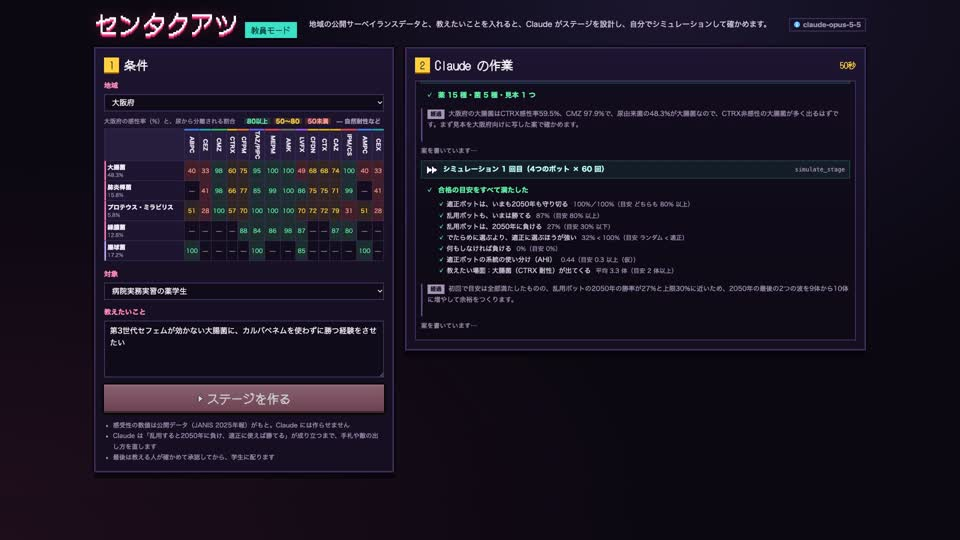
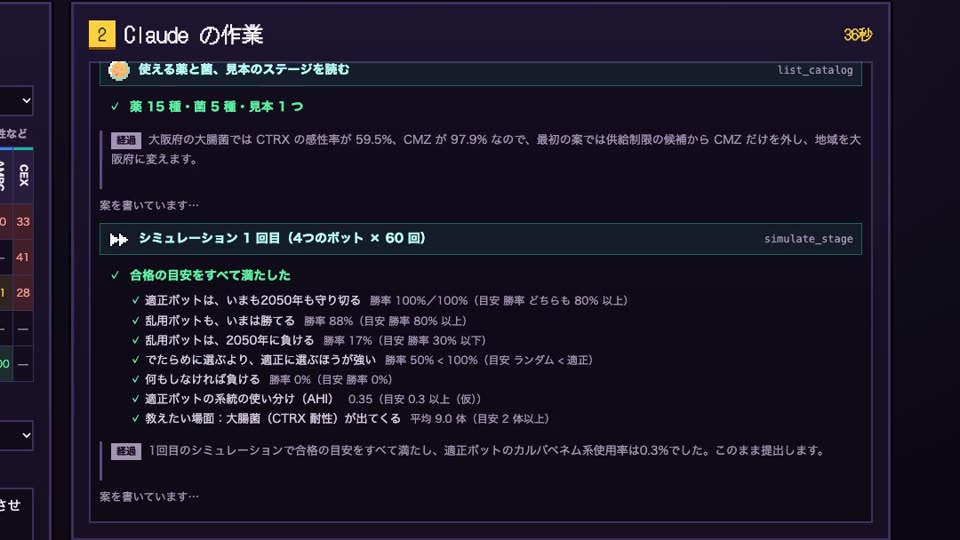
教員モードの録画を本物の Claude で撮り直し、シーン8を「入力 → Claude の作業 → 承認と QR → 学生の画面」の4段に
- 録画2回（0.33ドル・0.29ドル）。2回目（大阪府の値を読んで見本から1か所変えた案を作り、1回目のシミュレーションで合格、「カルバペネム系の使用は 0.3%。このまま提出」と判断）を使う
- 承認でできた public/stages/uti-osaka-ctrx-r-ecoli.json を入れる（11/5 の uti-osaka-3gc-r-ecoli.json も残す）
- make-draft-video.ts：シーン8の区切り（RUN8）・4段の構成・字幕6本・右下の数字 17%。工程の図の4は「直すか決める」。録音の目印「肺炎など」は 19秒
- README・提出文の教員モードの段落と写真（teacher-mode.jpg）を新しい回に。27% → 17% の回は「別の回」として再生ページの案内に残す
- DEMO.md のシーン8と時間配分、DEVLOG

Changed region(s): [[0.0, 0.0, 0.9375, 1.0]]

diff --git a/scripts/make-draft-video.ts b/scripts/make-draft-video.ts
@@ -240,7 +240,7 @@ p:last-of-type{color:#a493b6}
         ["データを読む", "地域の公開データ・使える薬"],
         ["案を作る", "見本をもとに手札と敵の出し方"],
         ["試す", "自動のプレイヤー4種 × 60回"],
-        ["直す", "目安に近い・届かない点を"],
+        ["直すか決める", "目安に近い点・届かない点があれば"],
         ["提出", "別の条件で100回ずつ確かめ直す"],
       ];
       const rows = steps
@@ -812,43 +812,47 @@ async function main(): Promise<void> {
       ],
     });
     built.at(-1)!.overlays.push({ kind: "compare", text: COMPARE.map((c) => `${c.head}：${c.rows.map((r) => r.text).join("／")}`).join(" ｜ "), start: t7c, end: DUR7 });
-    // 8 教える側（24秒）：教員モードの録画（record-demo.ts の teacher。本物の Claude を動かした回）。
-    // 入力（全体、3.5秒）→ Claude の作業を拡大（17.5秒。自分で見つけて直す場面は等倍 4.5秒）→ できたステージと承認・QR（3秒）。
-    // 第7版：紙芝居をやめた分で 16 → 24秒に戻した（初見の読み手役3人「Claude の見せ場がいちばん薄い」「教員モードは22〜24秒」）
-    // 作業の記録の時刻（録画の秒）：1回目のシミュレーションの合格が約40秒、「乱用の2050年の勝率 27% は上限 30% に近い」と書いて
-    // 波を増やすのが約48秒、2回目（17%）が約72秒、提出が約78秒から（2026-11-05 に録画のコマを見て確かめた）
+    // 8 教える側（23.5秒。第8版の続き、2026-11-08 作者「教員モードで何をしているか伝わりやすいように、写す場面も工夫」）：
+    // 教員モードの録画（record-demo.ts の teacher。本物の Claude を動かした回。撮り直し：2026-11-08 00:55 の2回目、claude-opus-5-5、0.29ドル・76秒。
+    //   1回目（0.33ドル）は見本のままで「87% は目安に近いが直すとつり合いが崩れる」と判断した回。2回目は教えたいことに合わせて見本から1か所変えた回で、こちらを使う）を4段で：
+    //   A 入力（3秒。地域・対象・教えたいことを打つ）→ B Claude の作業（12秒。記録の欄を拡大。データを読む → 案（供給制限の候補から CMZ を外す）→
+    //   1回目のシミュレーションで全部の目安を満たす → 「カルバペネム系の使用は 0.3%。このまま提出します」と判断する場面は等倍 → 提出）
+    //   → C 承認と QR（4秒。できたステージのカード → 承認 → 学生用の URL と QR）→ D 学生の画面（4.5秒。できたステージのブリーフィング → 盤面で遊ぶ）
+    // 録画の秒（2026-11-08 にコマで確かめた）：データを読む 11〜27、案の文 27〜、シミュレーション 1 回目の結果 39.5、判断の文 45.5、done 74.9、承認 80.9、QR 83.9、
+    // ブリーフィング 92.6、遊ぶ 97.6
     const sup8 = script.get(8)?.supplements ?? [];
     const TEACHER = "teacher";
     const tReg = at(TEACHER, "地域：大阪府");
     const tGo = at(TEACHER, "ステージを作る");
     const tEnd = at(TEACHER, "設計の終わり：done");
     const tUrl = at(TEACHER, "学生用の URL");
-    const w0 = 3.5; // 作業の場面が始まる秒（シーンの中）
-    const kIn = (tGo + 1 - (tReg - 1)) / w0;
-    // 作業の記録の欄を約1.33倍にして左に寄せ、右の約400px を工程の図と直した数字の欄にする
-    // （約1.8倍で画面いっぱいにすると、右の図が Claude の書いた肝心の一文の右端を隠した。2026-11-05）
+    const tBrief = at(TEACHER, "遊び方 → ブリーフィング（できたステージ）");
+    const tPlay = at(TEACHER, "できたステージを遊ぶ");
+    /** 作業の記録の中の区切り（録画の秒）。録画を撮り直したら、コマを見てここを直す。dataEnd：案の文が出る、planEnd：等倍に入る（結果の表が出そろったあと）、judgeEnd：判断の文を読み終える */
+    const RUN8 = { dataEnd: 27, planEnd: 42, judgeEnd: 46.5 };
+    const IN_LEN = 3; // A 入力
+    const WORKLEN = 12; // B 作業
+    const QRLEN = 4; // C 承認と QR
+    const BRIEF_LEN = 1.5; // D ブリーフィング（早送り）
+    const PLAY_LEN = 3; // D 遊ぶ（等倍）
+    const w0 = IN_LEN;
+    const kIn = (tGo + 1 - (tReg - 1)) / IN_LEN;
+    // 作業の記録の欄を約1.33倍にして左に寄せ、右の約400px を工程の図と数字の欄にする
     const WORK = "crop=1080:608:730:93,scale=1440:810:flags=lanczos,pad=1920:1080:40:135:color=0x0d0915";
-    // 作業の区切り（録画の秒の from・to と速さ）。合わせて WORKLEN 秒にする。
-    // 第5版の評価（審査員・元臨床医「Claude の判断を等速で見たい」）を受けて、「27% は上限 30% に近いため、波を増やす」と書く場面
-    // （録画の約48秒から。2026-11-06 にコマで確かめた）を等倍 4.5秒で見せる（作者の判断）。
-    // 声の「切り札だけで守れてしまうなら、敵を強めて確かめ直す」は第6版で外し、等倍の場面と上の一行で見せる。「できたステージで遊ぶ」は省いた
-    const SEGS: [number, number, number][] = [
-      [tGo + 1, 44, 8], // データを読む → 案 → 1回目の試し
-      [44, 47.5, 3], // 1回目の結果（合格）
-      [47.5, 52, 1], // 「27% は上限 30% に近いため、波を増やす」（等倍）
-      [52, 56, 3], // 直す
-      [56, 78, 8], // 2回目の試し（17%）
+    const JUDGE = 4.5; // 等倍の秒数（結果の表 → 判断の文）
+    const PLAN_LEN = 2.5; // データを読む → 案の文が出るまで（早送り）
+    const AFTER_LEN = 3; // 案の文が読める速さで → シミュレーション 1 回目（ゆっくり）
+    const kPlan = (RUN8.dataEnd - (tGo + 1)) / PLAN_LEN;
+    const kAfter = (RUN8.planEnd - RUN8.dataEnd) / AFTER_LEN;
+    const kSubmit = (tEnd - RUN8.judgeEnd) / (WORKLEN - PLAN_LEN - AFTER_LEN - JUDGE);
+    const all8: [number, number, number][] = [
+      [tGo + 1, RUN8.dataEnd, kPlan], // データを読む
+      [RUN8.dataEnd, RUN8.planEnd, kAfter], // 案の文（見本から1か所変える）→ シミュレーション 1 回目の結果
+      [RUN8.planEnd, RUN8.judgeEnd, 1], // 結果の表と判断の文（等倍）
+      [RUN8.judgeEnd, tEnd, kSubmit], // ブリーフィングを書く → 提出 → 確かめ直し → done
     ];
-    const WORKLEN = 17;
-    const QRLEN = 3;
-    const used = SEGS.reduce((a, [f, t, k]) => a + (t - f) / k, 0);
-    const kD = (tEnd - 78) / (WORKLEN - used); // 提出
-    const all8: [number, number, number][] = [...SEGS, [78, tEnd, kD]];
-    // できたステージと QR の場面は、設計の終わりの 4秒あと（承認 → 学生用の URL と QR）から。前は終わりの直後からで、3秒のうち QR が映るのは最後の1秒だけだった
-    const tQr = tEnd + 4;
-    const kRes = (tUrl + 5 - tQr) / QRLEN;
     const at8 = (rec: number) => {
-      // 録画の秒 → シーンの中の秒
+      // 録画の秒 → シーンの中の秒（作業の記録の中）
       let t = w0;
       for (const [f, to, k] of all8) {
         if (rec <= to) return t + (rec - f) / k;
@@ -857,39 +861,50 @@ async function main(): Promise<void> {
       return w0 + WORKLEN;
     };
     const loopAt: [string, number, number][] = [
-      ["1", at8(tGo + 1), at8(20)],
-      ["2", at8(20), at8(37)],
-      ["3", at8(37), at8(47)],
-      ["4", at8(47), at8(58)],
-      ["3+", at8(58), at8(77)],
-      ["5", at8(77), w0 + WORKLEN],
+      ["1", at8(tGo + 1), at8(RUN8.dataEnd)],
+      ["2", at8(RUN8.dataEnd), at8(38)],
+      ["3", at8(38), at8(RUN8.planEnd)],
+      ["4", at8(RUN8.planEnd), at8(RUN8.judgeEnd)],
+      ["5", at8(RUN8.judgeEnd), w0 + WORKLEN],
     ];
     const factHead = "切り札を使い続けても、2050年を守れてしまう割合";
-    const factNote = "目安は 30% 以下（低いほど、乱用では勝てない）。合格していたが、上限に近いので、AI が自分で敵を増やして確かめ直した";
+    const factNote = "目安は 30% 以下（低いほど、乱用では勝てない）。1回目で合格。提出時に別の種で100回ずつやり直しても 15%";
     const badge8 = ([f, t, k]: [number, number, number]) =>
-      k === 1 ? ov("speedLow", "等倍：Claude の判断", at8(f), at8(t)) : k < 4 ? ov("speedLow", `ゆっくり ×${k}`, at8(f), at8(t)) : speedBadge(k, at8(f), at8(t), "speedLow");
-    const DUR8 = w0 + WORKLEN + QRLEN;
+      k === 1 ? ov("speedLow", "等倍：Claude の判断", at8(f), at8(t)) : k < 4 ? ov("speedLow", `ゆっくり ×${Math.round(k)}`, at8(f), at8(t)) : speedBadge(k, at8(f), at8(t), "speedLow");
+    // C：承認と QR。done の 1.5秒あと（結果のカードへ寄る）から、QR が出て 4秒まで
+    const tQr0 = tEnd + 1.5;
+    const tQr1 = tUrl + 4;
+    const kRes = (tQr1 - tQr0) / QRLEN;
+    // D：学生の画面。ブリーフィング（早送り）→ 遊ぶ（等倍）
+    const kBrief = (tPlay - tBrief) / BRIEF_LEN;
+    const DUR8 = IN_LEN + WORKLEN + QRLEN + BRIEF_LEN + PLAY_LEN;
+    const tC = IN_LEN + WORKLEN; // C の始まり（シーンの中）
+    const tD = tC + QRLEN; // D の始まり
     await scene({
       n: 8,
       dur: DUR8,
-      screen: `教員モード：地域と教えたいことを入力（全体）→ AI（Claude）の作業の記録を拡大（早送り ×${SEGS[0]![2]} → ×${SEGS[1]![2]} → 自分で判断する場面は等倍 ${SEGS[2]![1] - SEGS[2]![0]}秒 → ×${SEGS[3]![2]} → ×${SEGS[4]![2]} → ×${Math.round(kD)}）＋ 右に工程の図・右下に直した数字 → できたステージと承認・QR を拡大`,
+      screen: `教員モード：A 地域・対象・教えたいことを入力（全体）→ B Claude の作業の記録を拡大（早送り ×${Math.round(kPlan)} → ゆっくり ×${Math.round(kAfter)} → 1回目のシミュレーションの結果と「このまま提出する」と判断する場面は等倍 ${JUDGE}秒 → ×${Math.round(kSubmit)}）＋ 右に工程の図・右下に乱用の2050年の勝率 → C できたステージのカード → 承認 → 学生用の URL と QR → D 学生の画面：できたステージのブリーフィング（早送り）→ 盤面で遊ぶ（等倍）`,
       parts: [
         clip(TEACHER, tReg - 1, tGo + 1, kIn),
         ...all8.map(([f, t, k]) => clip(TEACHER, f, t, k, WORK)),
-        clip(TEACHER, tQr, tUrl + 5, kRes, "crop=w=1280:h=720:x=630:y='min(360,90*t)'"),
+        clip(TEACHER, tQr0, tQr1, kRes, "crop=w=1280:h=720:x=630:y='min(360,90*t)'"),
+        clip(TEACHER, tBrief, tPlay, kBrief),
+        clip(TEACHER, tPlay, tPlay + PLAY_LEN),
       ],
       overlays: [
         ...(await seq(all8.map((seg) => () => badge8(seg)))),
         ...(await seq(loopAt.map(([k, a, b]) => () => ov("loop", k, a, b)))),
-        { ...(await ov("fact", factHead, at8(48), at8(72), ["27% → ？", factNote])), text: `${factHead} 27%（上限 30% に近い）→ 敵を増やす` },
-        { ...(await ov("fact", factHead, at8(72), w0 + WORKLEN, ["27% → 17%", factNote])), text: `${factHead} 27% → 17%` },
-        // 補足は同時に1行だけ（第7版。初見の読み手役3人「補足3行はスマホでは読めない」）。
-        // 第4版の直し：「数値は国の公開データのまま」は声から字幕に移した。データを読む場面で出す
-        ...(sup8[0] ? [await ov("top", sup8[0], at8(SEGS[0]![0]), at8(SEGS[0]![1]))] : []),
-        // 等倍の場面に、Claude の判断を一行で（第5版の評価の直し）
-        ...(sup8[1] ? [await ov("top", sup8[1], at8(SEGS[2]![0]), at8(SEGS[2]![1]))] : []),
-        // 最後は専門家が確かめること。できたステージと QR の場面
-        ...(sup8[2] ? [await ov("top", sup8[2], w0 + WORKLEN, DUR8)] : []),
+        { ...(await ov("fact", factHead, at8(RUN8.planEnd), w0 + WORKLEN, ["17%", factNote])), text: `${factHead} 17%（目安 30% 以下。1回目で合格）` },
+        await speedBadge(kRes, tC, tD, "speedLow"),
+        await speedBadge(kBrief, tD, tD + BRIEF_LEN),
+        await ov("speed", "等倍：学生の画面", tD + BRIEF_LEN, DUR8),
+        // 補足は同時に1行だけ。A：入れるのは3つ ／ B：データを読む・案（見本から1か所）・等倍の判断 ／ C：承認と QR ／ D：学生が遊ぶ
+        ...(sup8[0] ? [await ov("top", sup8[0], 0.3, IN_LEN)] : []),
+        ...(sup8[1] ? [await ov("top", sup8[1], at8(tGo + 1), at8(RUN8.dataEnd) - 0.1)] : []),
+        ...(sup8[2] ? [await ov("top", sup8[2], at8(RUN8.dataEnd), at8(RUN8.planEnd) - 0.1)] : []),
+        ...(sup8[3] ? [await ov("top", sup8[3], at8(RUN8.planEnd), at8(RUN8.judgeEnd))] : []),
+        ...(sup8[4] ? [await ov("top", sup8[4], tC, tD)] : []),
+        ...(sup8[5] ? [await ov("top", sup8[5], tD, DUR8)] : []),
       ],
     });
     // 9 道のり（13秒）：scripts/make-scene7.ts の絵（Claude Code と作ったもの／作者が確かめた値 → スキルの評価）。

diff --git a/scripts/lib/video-cues.ts b/scripts/lib/video-cues.ts
@@ -28,7 +28,7 @@ export const ANCHORS: Record<number, { word: string; at: number; why: string }[]
     { word: "今度は", at: 18.5, why: "守り切る場面まで" },
   ],
   // シーン8（第7版）：作業の記録のあと、「肺炎など」のころに提出 → できたステージと QR
-  8: [{ word: "肺炎など", at: 18, why: "提出の場面（できたステージ）が近づくまで" }],
+  8: [{ word: "肺炎など", at: 19, why: "学生の画面（できたステージを遊ぶ）が出るまで" }],
   // シーン10：タイトル画面の上の「使っていく場面」が消えて、「いまの一手が」に合わせて大きな字が出る
   10: [{ word: "いまの一手が", at: 7.5, why: "大きな字が出るまで" }],
 };

diff --git a/docs/DEMO.md b/docs/DEMO.md
@@ -40,6 +40,7 @@
 - **字幕の見え方**：上の補足の字幕（シーン4・5・6・7・8）を 32px → 38px にし、長い文は「、」「→」で2行に分ける（語の途中で折り返さず、右の札や図と重ならない）。シーン3のタイトル画面の一行は、中央だとロゴに重なるので右の盤面の上に右寄せで。シーン0の札を左上の小さな札から、上の中央の大きな札（54px）に。経歴のカードの4行目を所属の行と同じ大きさに（「論文11本（直近5年間）・学会の招待講演・日本化学療法学会 Young Challenger Award 2026受賞」）
 - **シーン2の動く絵**：年表を 1年刻みから 5年刻みに（いま → 5年後 → … → 20年後 → 何年も先）
 - **シーン10**：スマホの縦画面（実際のタイトル画面の写し）＋作者の映像＋使っていく場面のカードに作り直した（上の「画面」）
+- **シーン8 の録画を撮り直し**（作者「API 料金がかかってもよい。何をしているか伝わるように写す場面も工夫」）：本物の Claude を2回動かし（0.33ドル・0.29ドル）、2回目を使う。入力 → Claude の作業（案で見本から1か所変える・1回目で合格・判断は等倍）→ 承認と QR → 学生の画面で遊ぶ、の4段。工程の図の4は「直すか決める」に（直さない回も正しく読めるように）。詳しくはシーン8の「画面」
 
 ## 第7版：ゲームを早く出す（2026-11-06）
 
@@ -239,9 +240,9 @@
 
 ### シーン8　教える側：AI の Claude がステージを作り、自分で確かめる（2:07–2:30.5）
 
-- **画面**：教員モードの録画（本物の Claude `claude-opus-5-5` を動かした回）。入力（3.5秒）→ 作業の記録（17秒。右に工程の図、右下に「切り札を使い続けても2050年を守れてしまう割合 27% → 17%」。Claude が「27% は上限 30% に近いため、波を増やす」と書く場面は**等倍で 4.5秒**、ほかは早送り）→ できたステージと QR（3秒）。第7版：紙芝居をやめた分で 16 → 23.5秒に戻した
-- **字幕（補足）**：「数値は国の公開データ（JANIS）のまま。Claude（Anthropic の AI）には作らせない」「等倍：切り札だけで 27% 守れてしまう → 上限に近いので、Claude が敵を増やして確かめ直す」「最後は専門家が確かめて、学生に配る」（順に、データを読む場面・等倍の場面・QR の場面に1行ずつ。同時に出すのは1行だけ）
-- **ナレーション**（「ここからは、教える側」は第2版、「効かない細菌の割合は、地域ごとに違います」は第3版の橋渡し（読み手役3人が「教員モードに入るつなぎがほしい」）。「切り札だけで守れてしまうなら、敵を強めて確かめ直す」は等倍の場面と上の一行で見せる。「肺炎など別の感染症にも広げられる仕組みです」は作者の指摘⑧。いまのゲームは膀胱炎だけで、原因菌をその感染症に合わせて選び直せば別の感染症も作れる仕組み、という意味（作者の判断で「仕組みです」））
+- **画面**（第8版の続き、2026-11-08 に録画を撮り直して4段に）：教員モードの録画（本物の Claude `claude-opus-5-5` を動かした回。2026-11-08 の2回目、0.29ドル・76秒）。**A 入力**（3秒。地域・対象・教えたいことを打つ）→ **B Claude の作業**（12秒。記録の欄を拡大。データを読む → 案「大阪府の大腸菌は CTRX 59.5%・CMZ 97.9% なので、供給制限の候補から CMZ だけを外す」→ 1回目のシミュレーションで目安をすべて満たす → 「カルバペネム系の使用は 0.3%。このまま提出します」と判断する場面は**等倍 4.5秒**、ほかは早送り。右に工程の図、右下に「切り札を使い続けても2050年を守れてしまう割合 17%」）→ **C 承認と QR**（4秒。できたステージのカード → 承認 → 学生用の URL と QR）→ **D 学生の画面**（4.5秒。できたステージのブリーフィング → 盤面で遊ぶ（等倍））。第7版の「27% → 17%」の回は 11/5 の録画で、ステージ名が「いま」「2050年」のままだったので撮り直した（1回目の撮り直しは見本のままで「87% は目安に近いが直すとつり合いが崩れる」と判断した回。2回目の、教えたいことに合わせて見本から1か所変えた回を使う）
+- **字幕（補足）**：「教える人が入れるのは、地域・対象・教えたいことの3つ」「数値は国の公開データ（JANIS）のまま。Claude には作らせない」「教えたいことに合わせて、見本から1か所だけ変えた → CMZ をいつでも選べるように」「等倍：1回目で目安をすべて満たし、カルバペネム系の使用は 0.3% → このまま提出すると判断」「専門家が確かめて承認 → 学生用の URL と QR」「できたステージを、学生がブラウザで遊ぶ」（順に、A・B のデータを読む場面・B の案の場面・B の等倍の場面・C・D に1行ずつ。同時に出すのは1行だけ）
+- **ナレーション**（「ここからは、教える側」は第2版、「効かない細菌の割合は、地域ごとに違います」は第3版の橋渡し（読み手役3人が「教員モードに入るつなぎがほしい」）。「切り札だけで守れてしまうなら、敵を強めて確かめ直す」は第7版の等倍の場面の文。第8版の続きの録画では、Claude は見本から1か所変えた案を1回目で合格させ「このまま提出します」と判断したので、等倍の場面は「結果の表 → 判断の文」。「肺炎など別の感染症にも広げられる仕組みです」は作者の指摘⑧。いまのゲームは膀胱炎だけで、原因菌をその感染症に合わせて選び直せば別の感染症も作れる仕組み、という意味（作者の判断で「仕組みです」））
   > ここからは、教える側。効かない細菌の割合は、地域ごとに違います。地域と教えたいことを入れると、Claude が、地域のデータでステージを作り、自分で試しながら調整します。数値は国の公開データのまま、Claude には作らせません。肺炎など別の感染症にも広げられる仕組みです。
 
 ### シーン9　道のり：期間中に Claude Code と。値はすべて自分で確かめた（2:30.5–2:43）

diff --git a/docs/DEVLOG.md b/docs/DEVLOG.md
@@ -2331,3 +2331,14 @@ DEMO.md を組み直した（受賞作の型の対応表も DEMO.md に）。シ
 - **シーン10 を作り直した**（作者「タイトル画面の上にテロップを重ねた形はデザイン性が高いとは言い難い。話す映像を出してもいい。スマホの縦画面の枠に縦画面のデザインを置き、隣で話す映像とテロップ、という案」）：左にスマホの縦画面の枠（実際のタイトル画面の写し。`scripts/make-phone-shot.ts` が画面なしの Chrome を 390×844・2倍で開いて撮る → `recordings/phone/title-portrait.png`。合成ではない）、右に作者の映像（`recordings/author/self10.mp4`。声もこの映像から。`--self10`）と「使っていく場面」のカード、「いまの一手が」で大きな字。映像がなければ第7版の形（タイトル画面の上にカード）に自動で戻る（`closing` の絵、`SELF10`）。スマホの枠は「シーン10 の左」にだけ使った（動画全体に端末の枠を付ける案は 11/7 に非採用）
 
 **書き出しと確かめ**（作者の映像はシーン3・10 とも 11/7 の仮のもの（文が変わる前）。ほかは仮の読み上げ `--rate 205`）：新しい録画の目印は前と 0.3秒以内（替える瞬間 `SWITCH` 23.0〜24.8秒と並べ比べの数字はそのまま）。コマで確かめたこと：シーン0の札「現在：切り札の薬を連打して、楽勝」は上の中央で読める、HUD は「ステージ1 現在」「ステージ2 未来（2050年）」で収まる、シーン3の一行は右寄せ3行でロゴにかからない、シーン4・7・8の上の字幕は「→」で2行に分かれて右の「等倍」「早送り」の札や工程の図と重ならない、経歴のカードの4行目は所属と同じ大きさで2行、シーン10 は左にスマホの縦画面・右に作者の映像とカード、エンドカードに注意書きの行。最初の書き出しでは、上の字幕が1行で右の札にかぶり（シーン4・7）、シーン8の字幕が「す」1字だけ折り返し、シーン3の一行がロゴに重なり、シーン10 の「スマホでも、ブラウザで遊べます」が下の字幕に隠れたので、2行に分ける道具（`twoLines`：真ん中に近い「、」「。」「→」で分ける）、右寄せの `topRight`、「スマホでも」をスマホの上に、で直した。シーン5の文が長くなったので、紙芝居のコマは 5.5秒 → 7秒に戻した（作者の速さで余り約1秒）。README の GIF（`docs/media/play-2050.gif`。乱用の 275〜283秒）と結果画面の写真（`result-2050.jpg`。適正の 384.5秒）も新しい録画から作り直した（HUD の「未来（2050年）」が写る）。
+
+### 教員モードの録画を撮り直し、シーン8を4段に（2026-11-08 未明、21回目の続き）
+
+作者「API 料金がかかってもよいので、教員モードの録画も撮り直す。教員モードで何をしているか伝わりやすいように、写す場面も工夫」。
+
+- **録画**：`npm run teacher`（API キーはサーバーがリポジトリの外の `.env` から読む。こちらは中身を見ていない）と開発サーバーを動かし、`npx tsx scripts/record-demo.ts --take teacher`（地域・対象・教えたいことを打つ → 「ステージを作る」→ できるまで待つ → 承認 → 学生用の URL と QR → できたステージを学生用の画面で遊ぶ）。本物の `claude-opus-5-5` を2回動かした：
+  - 1回目（0.33ドル・74秒）：見本 uti-zenkoku をそのまま大阪府に写し、1回目のシミュレーションで目安をすべて満たした。「乱用ボットの現在の勝率 87% は目安 80% に近いが、修正すると2050年の勝率（15%）のつり合いが崩れるおそれがあるので、このまま提出する」と判断。最後に「確認してほしい点」（適正ボットもカルバペネム系を 1.4% 使う、87% は目安に近い、振り返りの書き方）を人に示した。控えは `recordings/_teacher-run1/`
+  - 2回目（0.29ドル・76秒）：大阪府の値（大腸菌の CTRX 感性率 59.5%・CMZ 97.9%）を読んで、**見本から1か所だけ（ステージ1の供給制限の候補から CMZ を外し、いつでも CMZ を選べるように）変えた案**を作り、1回目のシミュレーションで目安をすべて満たし（乱用の2050年 17%、現在 88%）、「適正ボットのカルバペネム系使用率は 0.3%。このまま提出します」と判断して提出（提出時の100回ずつのやり直しでも 15%）。**動画にはこちらを使う**（教えたいこと → 設計の判断、が見える）。承認でできた `public/stages/uti-osaka-ctrx-r-ecoli.json` はこの回のもの（11/5 の `uti-osaka-3gc-r-ecoli.json` も残す。再生ページの記録（27% → 17% の回）はそのまま）
+  - どちらも「1回目で合格」で、11/5 の「27% は上限に近いので敵を増やす」のような直しは起きなかった。スキルありの評価（3回中2回が1回目で合格）と同じ傾向
+- **シーン8 を4段に**（`make-draft-video.ts`、23.5秒のまま）：A 入力（3秒。地域・対象・教えたいことを打つ。字幕「教える人が入れるのは、地域・対象・教えたいことの3つ」）→ B Claude の作業（12秒。記録の欄を拡大。データを読む ×6 → 案の文「供給制限の候補から CMZ だけを外し」を読める速さ ×5 → 結果の表と「このまま提出します」の判断は**等倍 4.5秒** → 提出 ×14。右に工程の図（4を「直すか決める」に）、右下に「切り札を使い続けても2050年を守れてしまう割合 17%」）→ C 承認と QR（4秒。できたステージのカード → 承認 → 学生用の URL と QR）→ D 学生の画面（4.5秒。できたステージのブリーフィング ×3 → 盤面で遊ぶ 等倍 3秒）。字幕は6本を1行ずつ。前は入力 3.5秒 → 作業 17秒 → QR 3秒で、学生の画面は使っていなかった。録音の目印「肺炎など」は 18 → 19秒（学生の画面が出るまで）
+- **文書**：README の教員モードの段落と写真（`docs/media/teacher-mode.jpg`。新しい録画の判断の文の場面）、提出文の教員モードの段落、DEMO.md のシーン8を新しい回に合わせた。27% → 17% の回は「別の回」として残し、再生ページの案内もそのまま

diff --git a/README.md b/README.md
@@ -41,9 +41,9 @@
 3. 合格の目安（適正なら2050年も守れる、乱用すると2050年に負ける、など）に届かない・近すぎる点を直して、確かめ直す
 4. 別の乱数の種で各100回確かめ直して提出する。教える人がプレビューで遊んで承認すると、学生用の URL と QR コードが出る
 
-![教員モード：左に地域の感受性率と教えたいこと、右に Claude の作業（合格の目安と、27% は上限に近いので敵を増やすという判断）](docs/media/teacher-mode.jpg)
+![教員モード：Claude の作業の記録（大阪府の値から見本を1か所変えた案、1回目のシミュレーションで合格の目安をすべて満たし、カルバペネム系の使用 0.3% を確かめて提出すると判断）](docs/media/teacher-mode.jpg)
 
-本番（動画のシーン8）では、Claude は1回目で目安をすべて満たしたのに、「乱用ボットの2050年の勝率 27% は上限 30% に近い」と自分で書き、敵の波を増やして 17% にしてから提出しました（約2分・約0.5ドル）。同じ入力でもう一度動かし、同じように 27% → 17% に直した回の記録を、[再生ページ](https://ph1125ks.github.io/Built-with-Claude-Japan-2026/replay.html)で記録した時間のとおりに見られます。**プログラムを書けない教員でも、自分の地域のデータで教材を作れる**ことが、この機能の目的です。
+本番（動画のシーン8。2026-11-08 の回）では、Claude は大阪府の値（大腸菌の CTRX 感性率 59.5%・CMZ 97.9%）を読んで、見本から1か所だけ（供給制限の候補から CMZ を外して、いつでも CMZ を選べるように）変えた案を作り、1回目のシミュレーションで目安をすべて満たし、「適正ボットのカルバペネム系の使用は 0.3%」を確かめてから提出しました（約1分・約0.3ドル）。別の回では、1回目で合格したのに「乱用ボットの2050年の勝率 27% は上限 30% に近い」と自分で書き、敵の波を増やして 17% にしてから提出しています。その回の記録を、[再生ページ](https://ph1125ks.github.io/Built-with-Claude-Japan-2026/replay.html)で記録した時間のとおりに見られます。**プログラムを書けない教員でも、自分の地域のデータで教材を作れる**ことが、この機能の目的です。
 
 いま作ってあるのは膀胱炎（尿路）のステージだけです。ステージの波に出てくる菌は、その検体（いまは尿）から分離される菌の割合を公開データから読んで選ばれるので、肺炎など別の感染症も、その検体の公開データ（JANIS には喀痰や血液の年報もある）から菌と割合を選び直せば作れる形にしています（膀胱の絵と言い回しは尿路向けなので、そのままは使えない。今回の範囲は尿路だけ：[SPEC.md](SPEC.md) 11）。
 

diff --git a/docs/SUBMISSION.md b/docs/SUBMISSION.md
@@ -59,7 +59,7 @@ https://github.com/ph1125ks/Built-with-Claude-Japan-2026
 
 地域・対象・教えたいこと（例：「第3世代セフェムが効かない大腸菌に、カルバペネムを使わずに勝つ経験をさせたい」）を入れると、Claude（claude-opus-5-5）がステージを設計します。Anthropic TypeScript SDK のツールランナーで、5つのツールを持たせました：地域の公開データを読む、使える薬・菌・見本を読む、4つのボット（適正・乱用・ランダム・何もしない）で各60回シミュレーションする、規則で検査する、提出する（別の乱数の種で各100回確かめ直す）。
 
-Claude は「設計 → シミュレーション → 直す」を自分で回します。本番では、1回目で合格の目安をすべて満たしたのに、「乱用ボットの2050年の勝率 27% は上限 30% に近い」と自分で判断し、敵の波を増やして 17% にしてから提出しました（約2分・約0.5ドル）。この記録は API キーなしで再生できます（上の replay.html）。
+Claude は「設計 → シミュレーション → 直すか決める → 提出」を自分で回します。動画の回では、大阪府の値を読んで見本から1か所だけ変えた案（供給制限の候補から CMZ を外す）を作り、1回目のシミュレーションで目安をすべて満たし、カルバペネム系の使用が 0.3% であることを確かめてから提出しました（約1分・約0.3ドル）。別の回では、合格していても「乱用ボットの2050年の勝率 27% は上限 30% に近い」と自分で判断して敵の波を増やし、17% にしてから提出しました。その記録は API キーなしで再生できます（上の replay.html）。
 
 **Claude に作らせないもの**：感受性の数値は公開データのままで、Claude はツールで読むだけです。薬の性質と薬価は公的な文書から。Claude が作ったステージは下書きで、専門家が確かめて承認するまで学生には届きません。このゲームの中の Claude はステージを作る役だけで、学生と会話せず、診療の助言もしません（教育用のシミュレーションで、実際の診療の判断には使えないことを、画面と README に書いています）。プログラムを書けない教員でも、自分の地域のデータで教材を作れることが、この機能の目的です。
 
